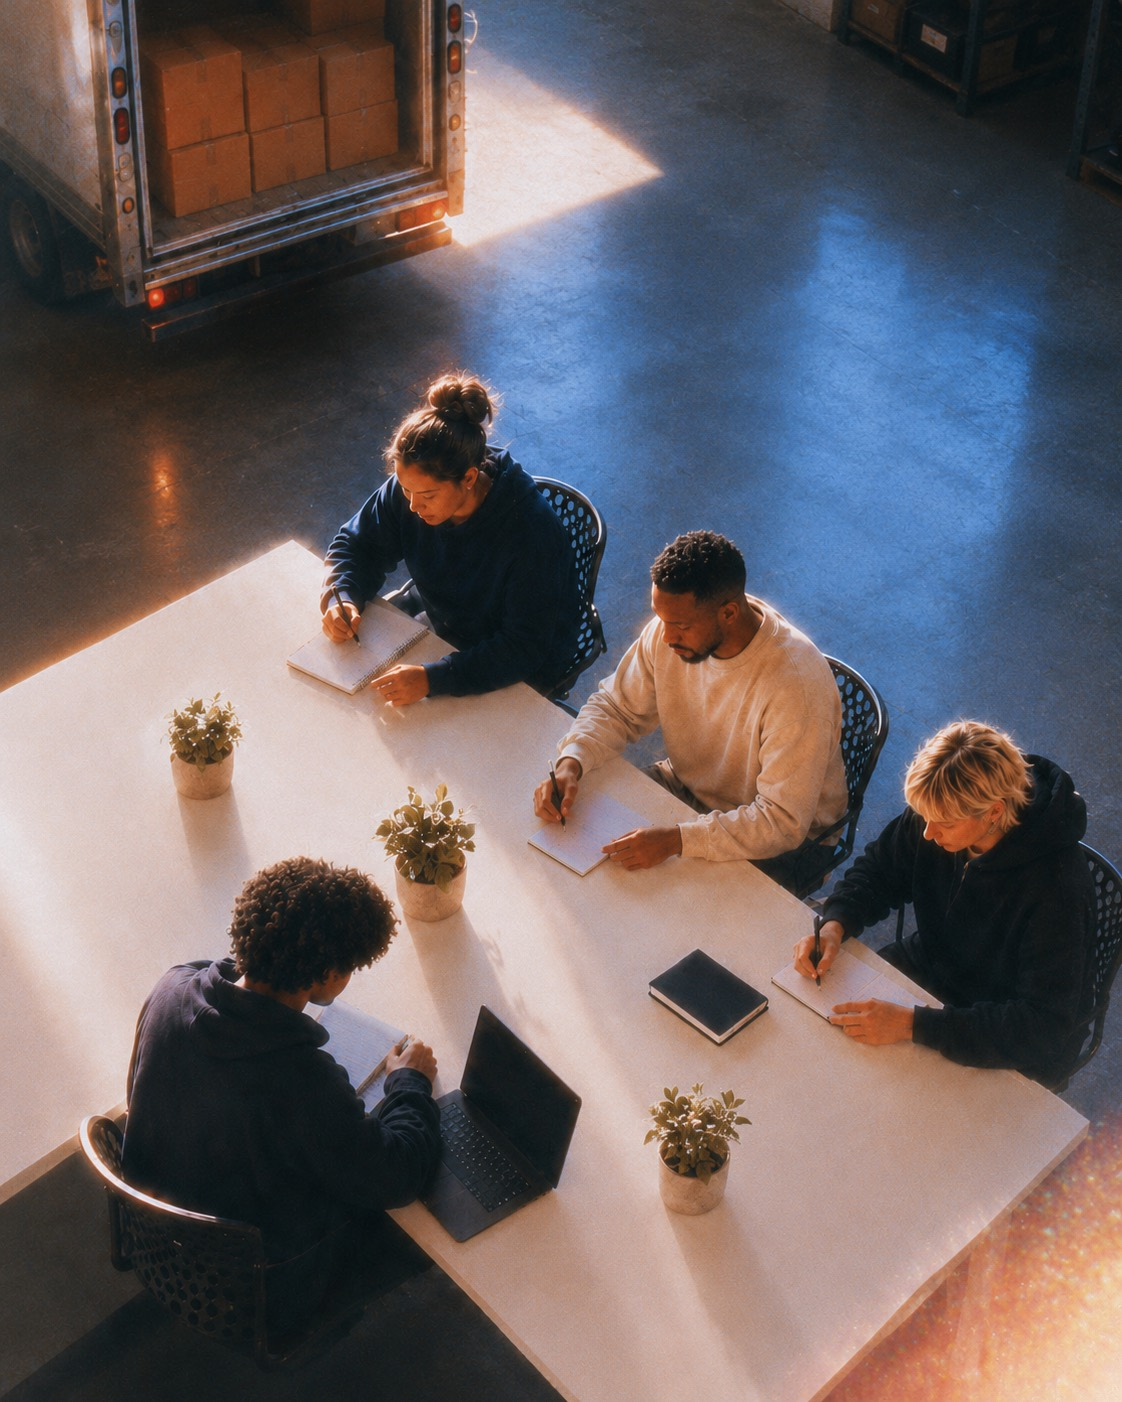
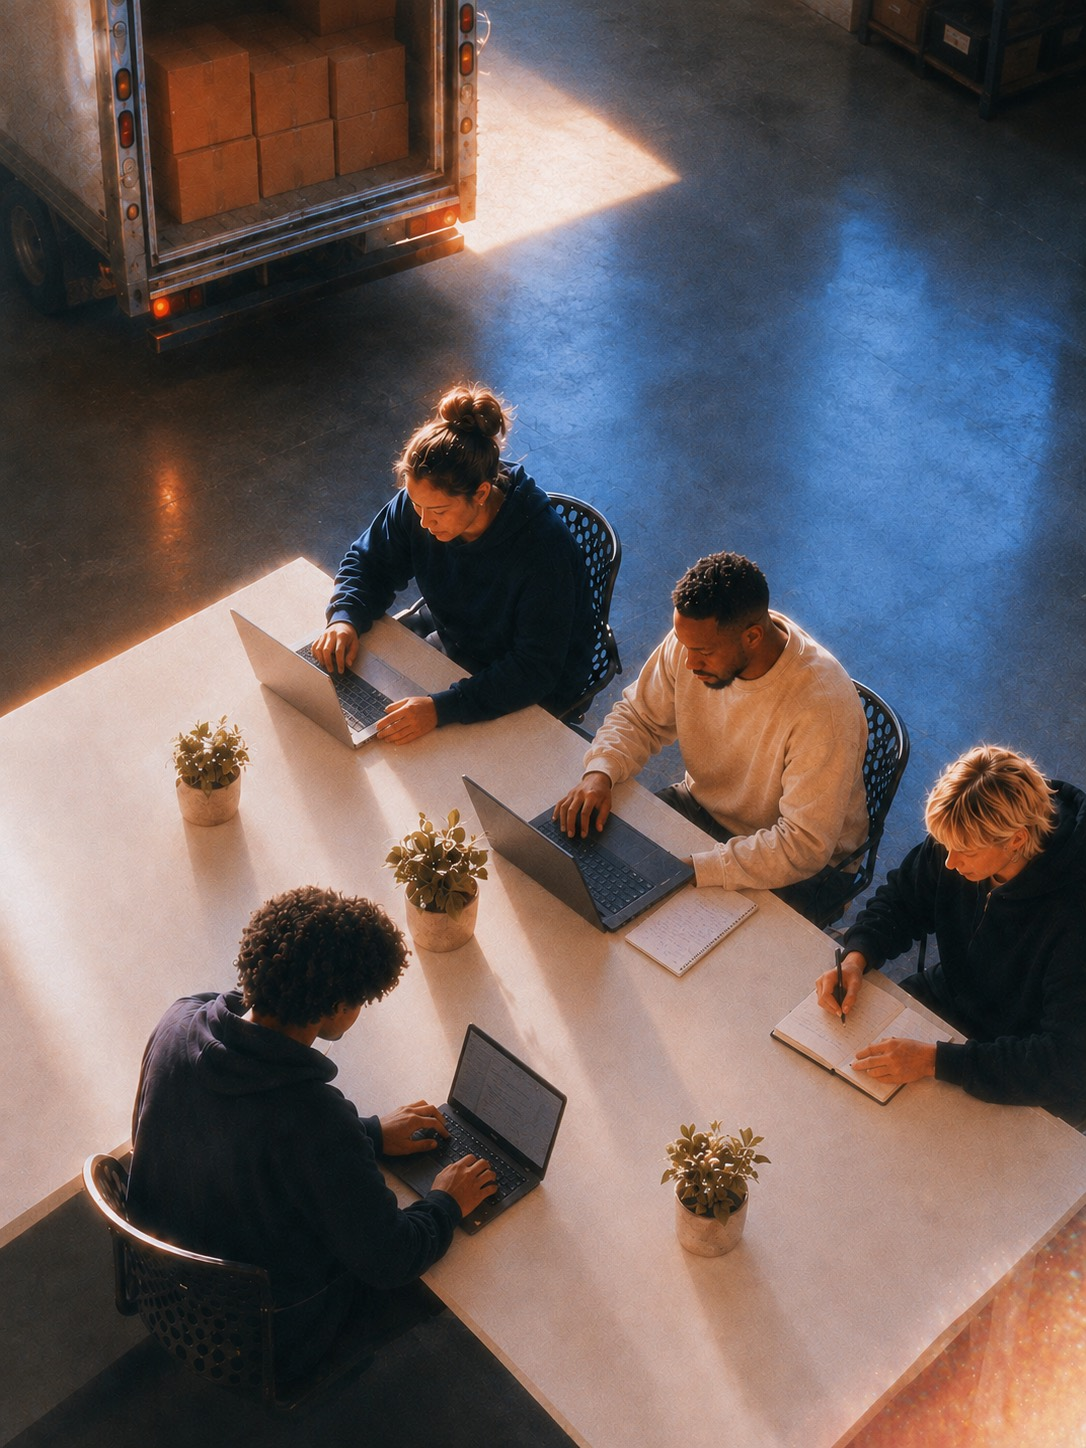
Lab: new with-Hoshii shot, peek on image hover, permanent marks
New photograph for the with state: same table, same four people, but on
laptops rather than notebooks. The pair now reads as paper to digital,
not just untidy to tidy.

Corrects the interaction I built from a misreading:
- The empty mark is permanent, not a hover reveal. Two marks on the seam
  are what tell you there are two states before you touch anything
- Hovering the photograph peeks at the other one and releases on leave,
  rather than committing. Hovering or clicking a label still commits
- Committed state and displayed state are now separate, so a peek can
  override what you chose without discarding it. The marks follow the
  picture, so the filled dot always names what is on screen

Crop raised to 25% so the loading bay stays in frame — the sources are
portrait in a landscape-ish column, so cover crops hard top and bottom.

diff --git a/index.html b/index.html
@@ -10,7 +10,7 @@
       name="description"
       content="The intelligent inbox that keeps work moving. Hoshii is your team&rsquo;s proactive inbox that gets better every day. Reply faster, reduce manual work."
     />
-    <link rel="stylesheet" href="styles.css?v=225" />
+    <link rel="stylesheet" href="styles.css?v=228" />
   </head>
   <body>
     <svg class="iconsprite" aria-hidden="true" focusable="false">
@@ -125,7 +125,7 @@
 
           <div class="hero__demo">
 
-            <figure class="hero__shots">
+            <figure class="hero__shots" data-show="plain">
               <img
                 class="hero__shot hero__shot--paper"
                 src="assets/img/desk-paper.jpg"
@@ -137,9 +137,9 @@
               <img
                 class="hero__shot hero__shot--clear"
                 src="assets/img/desk-clear.jpg"
-                alt="The same four people at the same table, now clear."
-                width="1122"
-                height="1402"
+                alt="The same four people at the same table, working on laptops with the paper gone."
+                width="1086"
+                height="1448"
                 fetchpriority="high"
               />
             </figure>
@@ -1180,21 +1180,37 @@
       const heroSwitch = document.querySelector('.hero__switch');
 
       if (heroOpts.length && heroInbox) {
-        const showState = (opt) => {
+        // Committed state versus what is on screen. Hovering the photograph
+        // peeks at the other one without changing what you chose; the marks
+        // follow the picture, so the filled dot always names what you see.
+        let committed = 'plain';
+
+        const render = (shown) => {
+          heroInbox.dataset.show = shown;
+          heroSwitch.dataset.active = shown;
           heroOpts.forEach((o) =>
-            o.setAttribute('aria-pressed', String(o === opt))
+            o.setAttribute('aria-pressed', String(o.dataset.state === shown))
           );
-          heroInbox.classList.toggle('is-hoshii', opt.dataset.state === 'hoshii');
-          heroSwitch.dataset.active = opt.dataset.state;
+        };
+
+        const commit = (state) => {
+          committed = state;
+          render(state);
         };
 
         heroOpts.forEach((opt) => {
-          // Hover is enough to swap the photograph; click and focus are there
-          // for touch and for the keyboard.
-          opt.addEventListener('mouseenter', () => showState(opt));
-          opt.addEventListener('focus', () => showState(opt));
-          opt.addEventListener('click', () => showState(opt));
+          const state = opt.dataset.state;
+          opt.addEventListener('mouseenter', () => commit(state));
+          opt.addEventListener('focus', () => commit(state));
+          opt.addEventListener('click', () => commit(state));
         });
+
+        heroInbox.addEventListener('mouseenter', () =>
+          render(committed === 'plain' ? 'hoshii' : 'plain')
+        );
+        heroInbox.addEventListener('mouseleave', () => render(committed));
+
+        render(committed);
         heroOpts.forEach((o) =>
           o.setAttribute('aria-pressed', String(o.dataset.state === 'plain'))
         );

diff --git a/styles.css b/styles.css
@@ -666,11 +666,12 @@ p {
     box-shadow: 0 0 0 0.3125rem var(--bone), inset 0 0 0 1.5px rgba(38, 24, 20, 0.42);
     translate: 50% -50%;
     opacity: 0;
-    transition: opacity 240ms var(--ease);
+    transition: opacity 200ms var(--ease);
   }
 
-  .hero__shots:hover ~ .hero__switch .hero__opt[aria-pressed='false']::after,
-  .hero__switch:hover .hero__opt[aria-pressed='false']::after {
+  /* Always visible on the position you are not on: the pair of marks is what
+     tells you there are two states before you touch anything. */
+  .hero__opt[aria-pressed='false']::after {
     opacity: 1;
   }
 
@@ -724,7 +725,10 @@ p {
   width: 100%;
   height: 100%;
   object-fit: cover;
-  object-position: 50% 62%;
+  /* The truck is in the top of both frames and the sources are portrait in a
+     landscape-ish column, so cover crops hard top and bottom. 25% keeps the
+     loading bay in shot; much lower and the table starts losing people. */
+  object-position: 50% 25%;
   transition: opacity 460ms var(--ease);
 }
 
@@ -732,7 +736,7 @@ p {
   opacity: 0;
 }
 
-.hero__shots.is-hoshii .hero__shot--clear {
+.hero__shots[data-show='hoshii'] .hero__shot--clear {
   opacity: 1;
 }
 
@@ -1431,7 +1435,10 @@ p {
   width: 100%;
   height: 100%;
   object-fit: cover;
-  object-position: 50% 40%;
+  /* The truck is in the top of both frames and the sources are portrait in a
+     landscape-ish column, so cover crops hard top and bottom. 25% keeps the
+     loading bay in shot; much lower and the table starts losing people. */
+  object-position: 50% 25%;
 }
 
 .quote__who {
